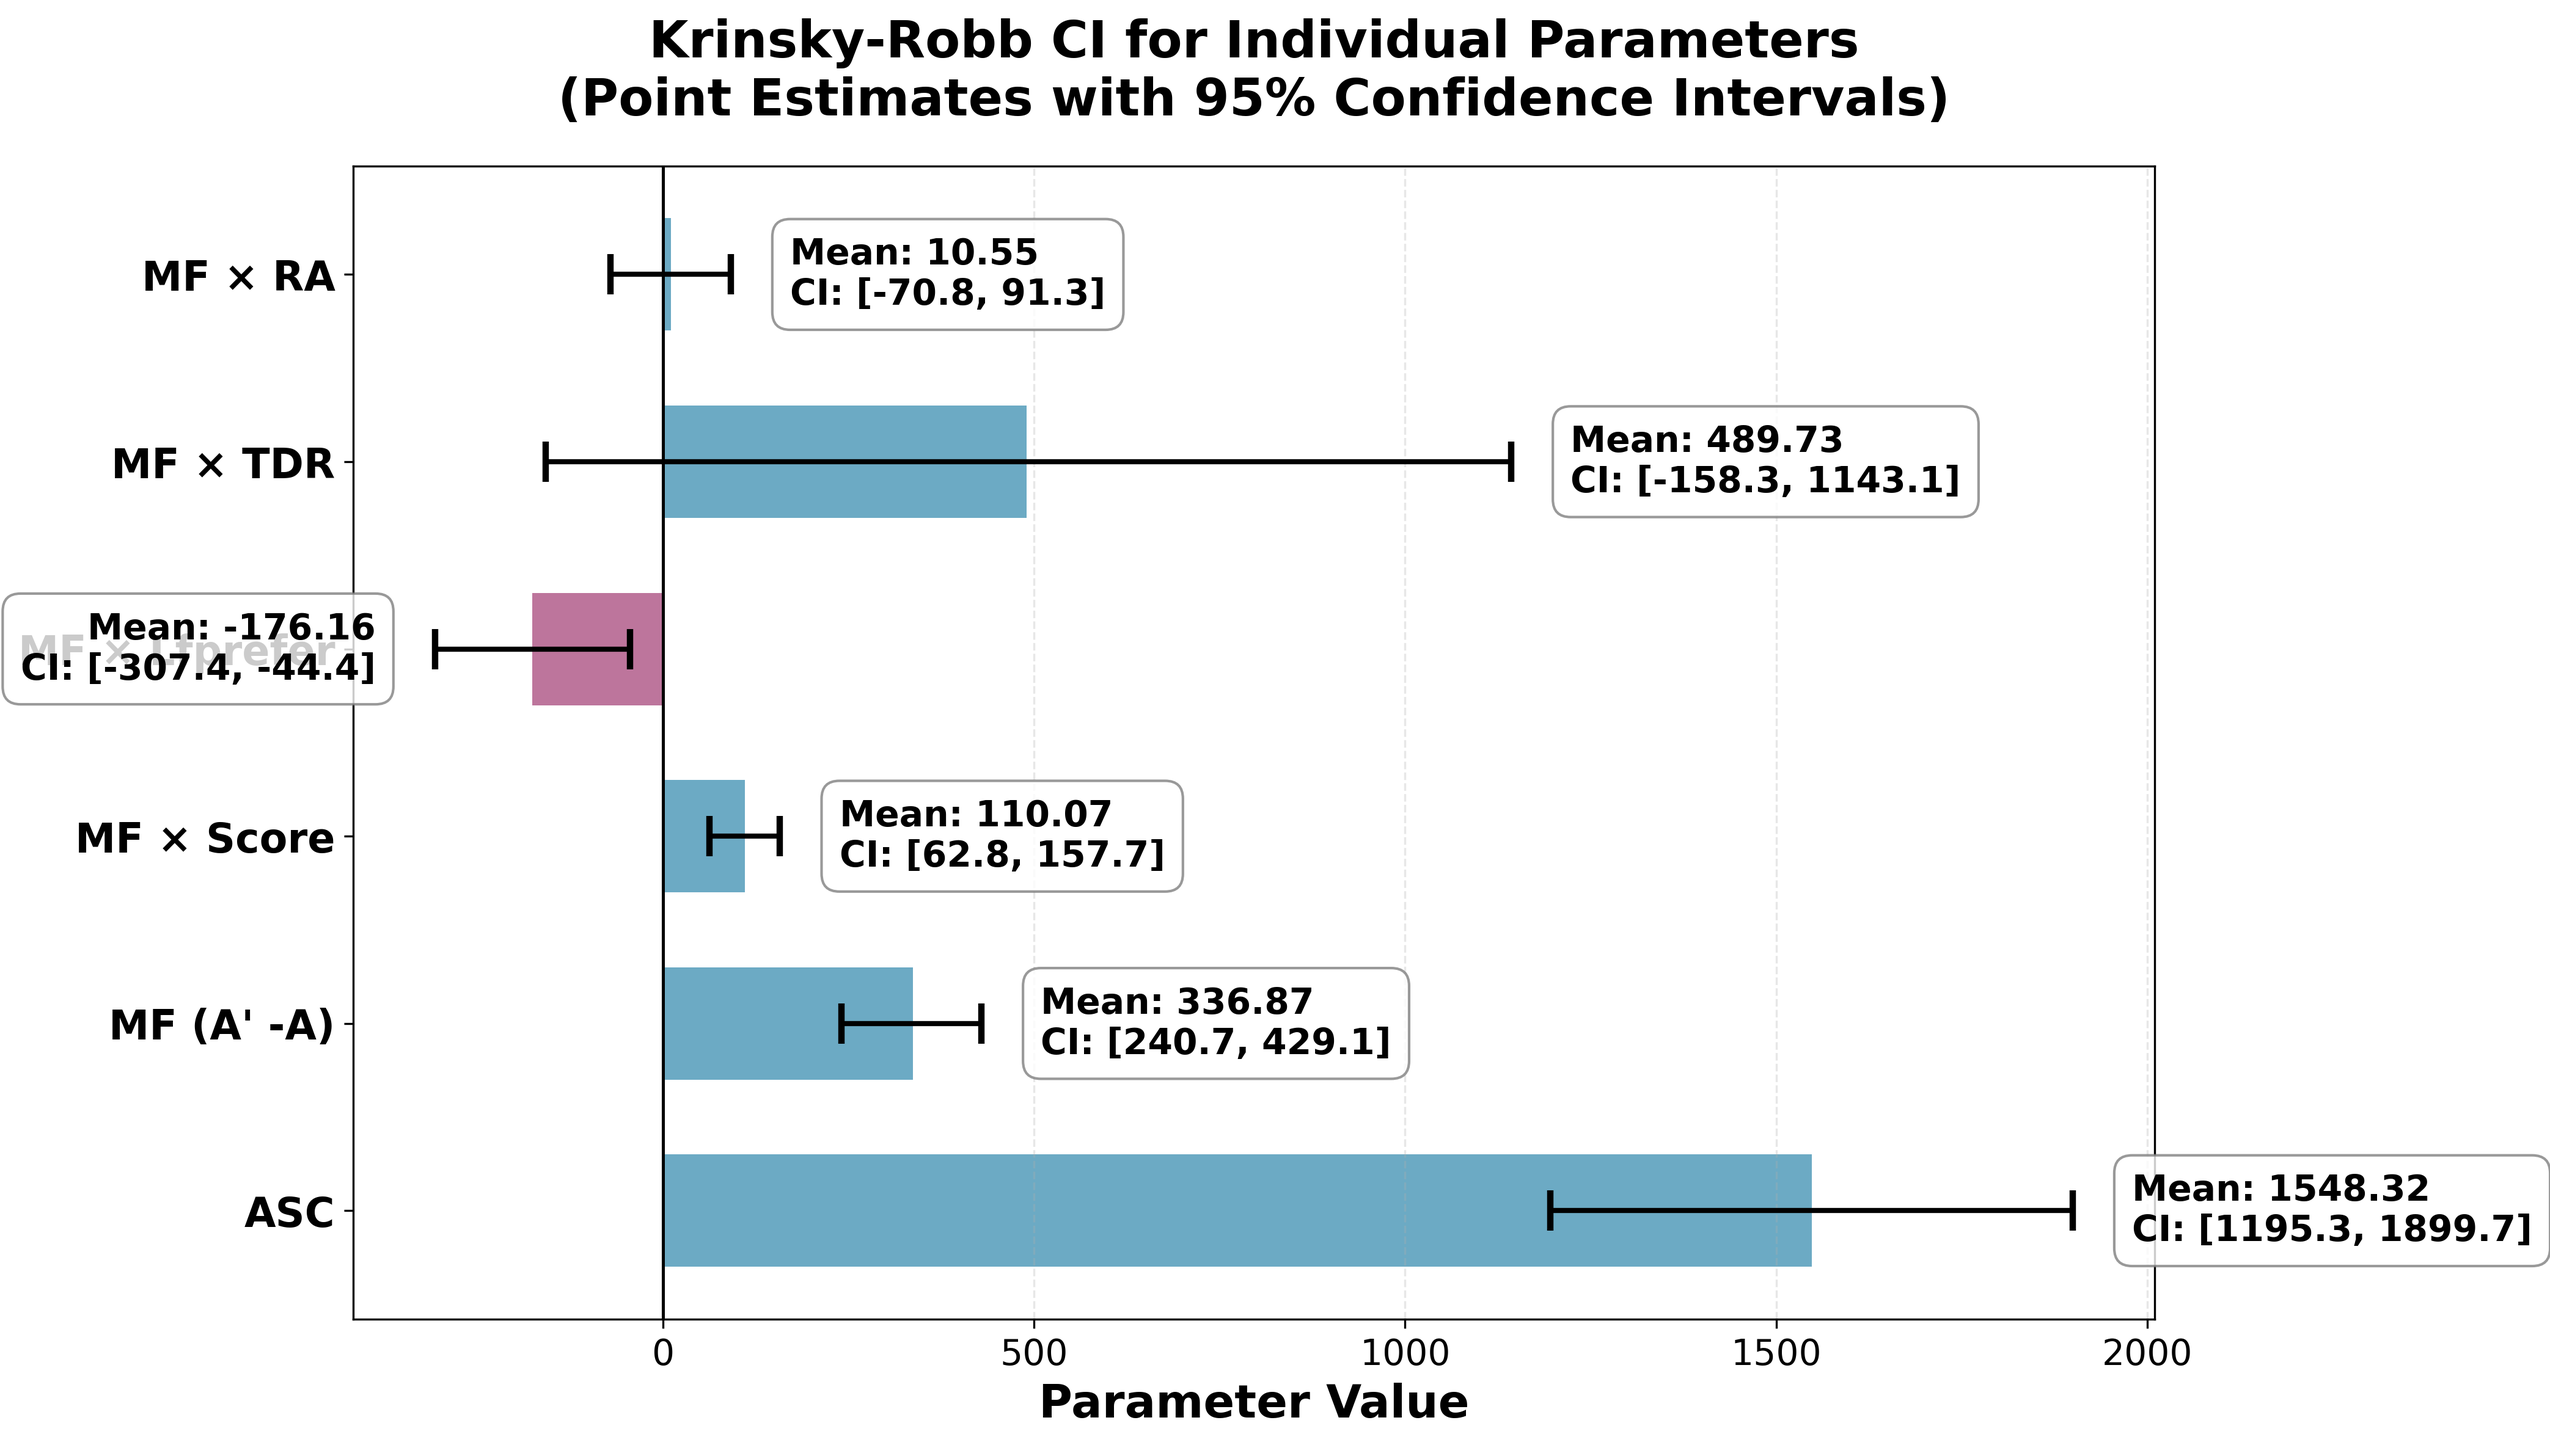
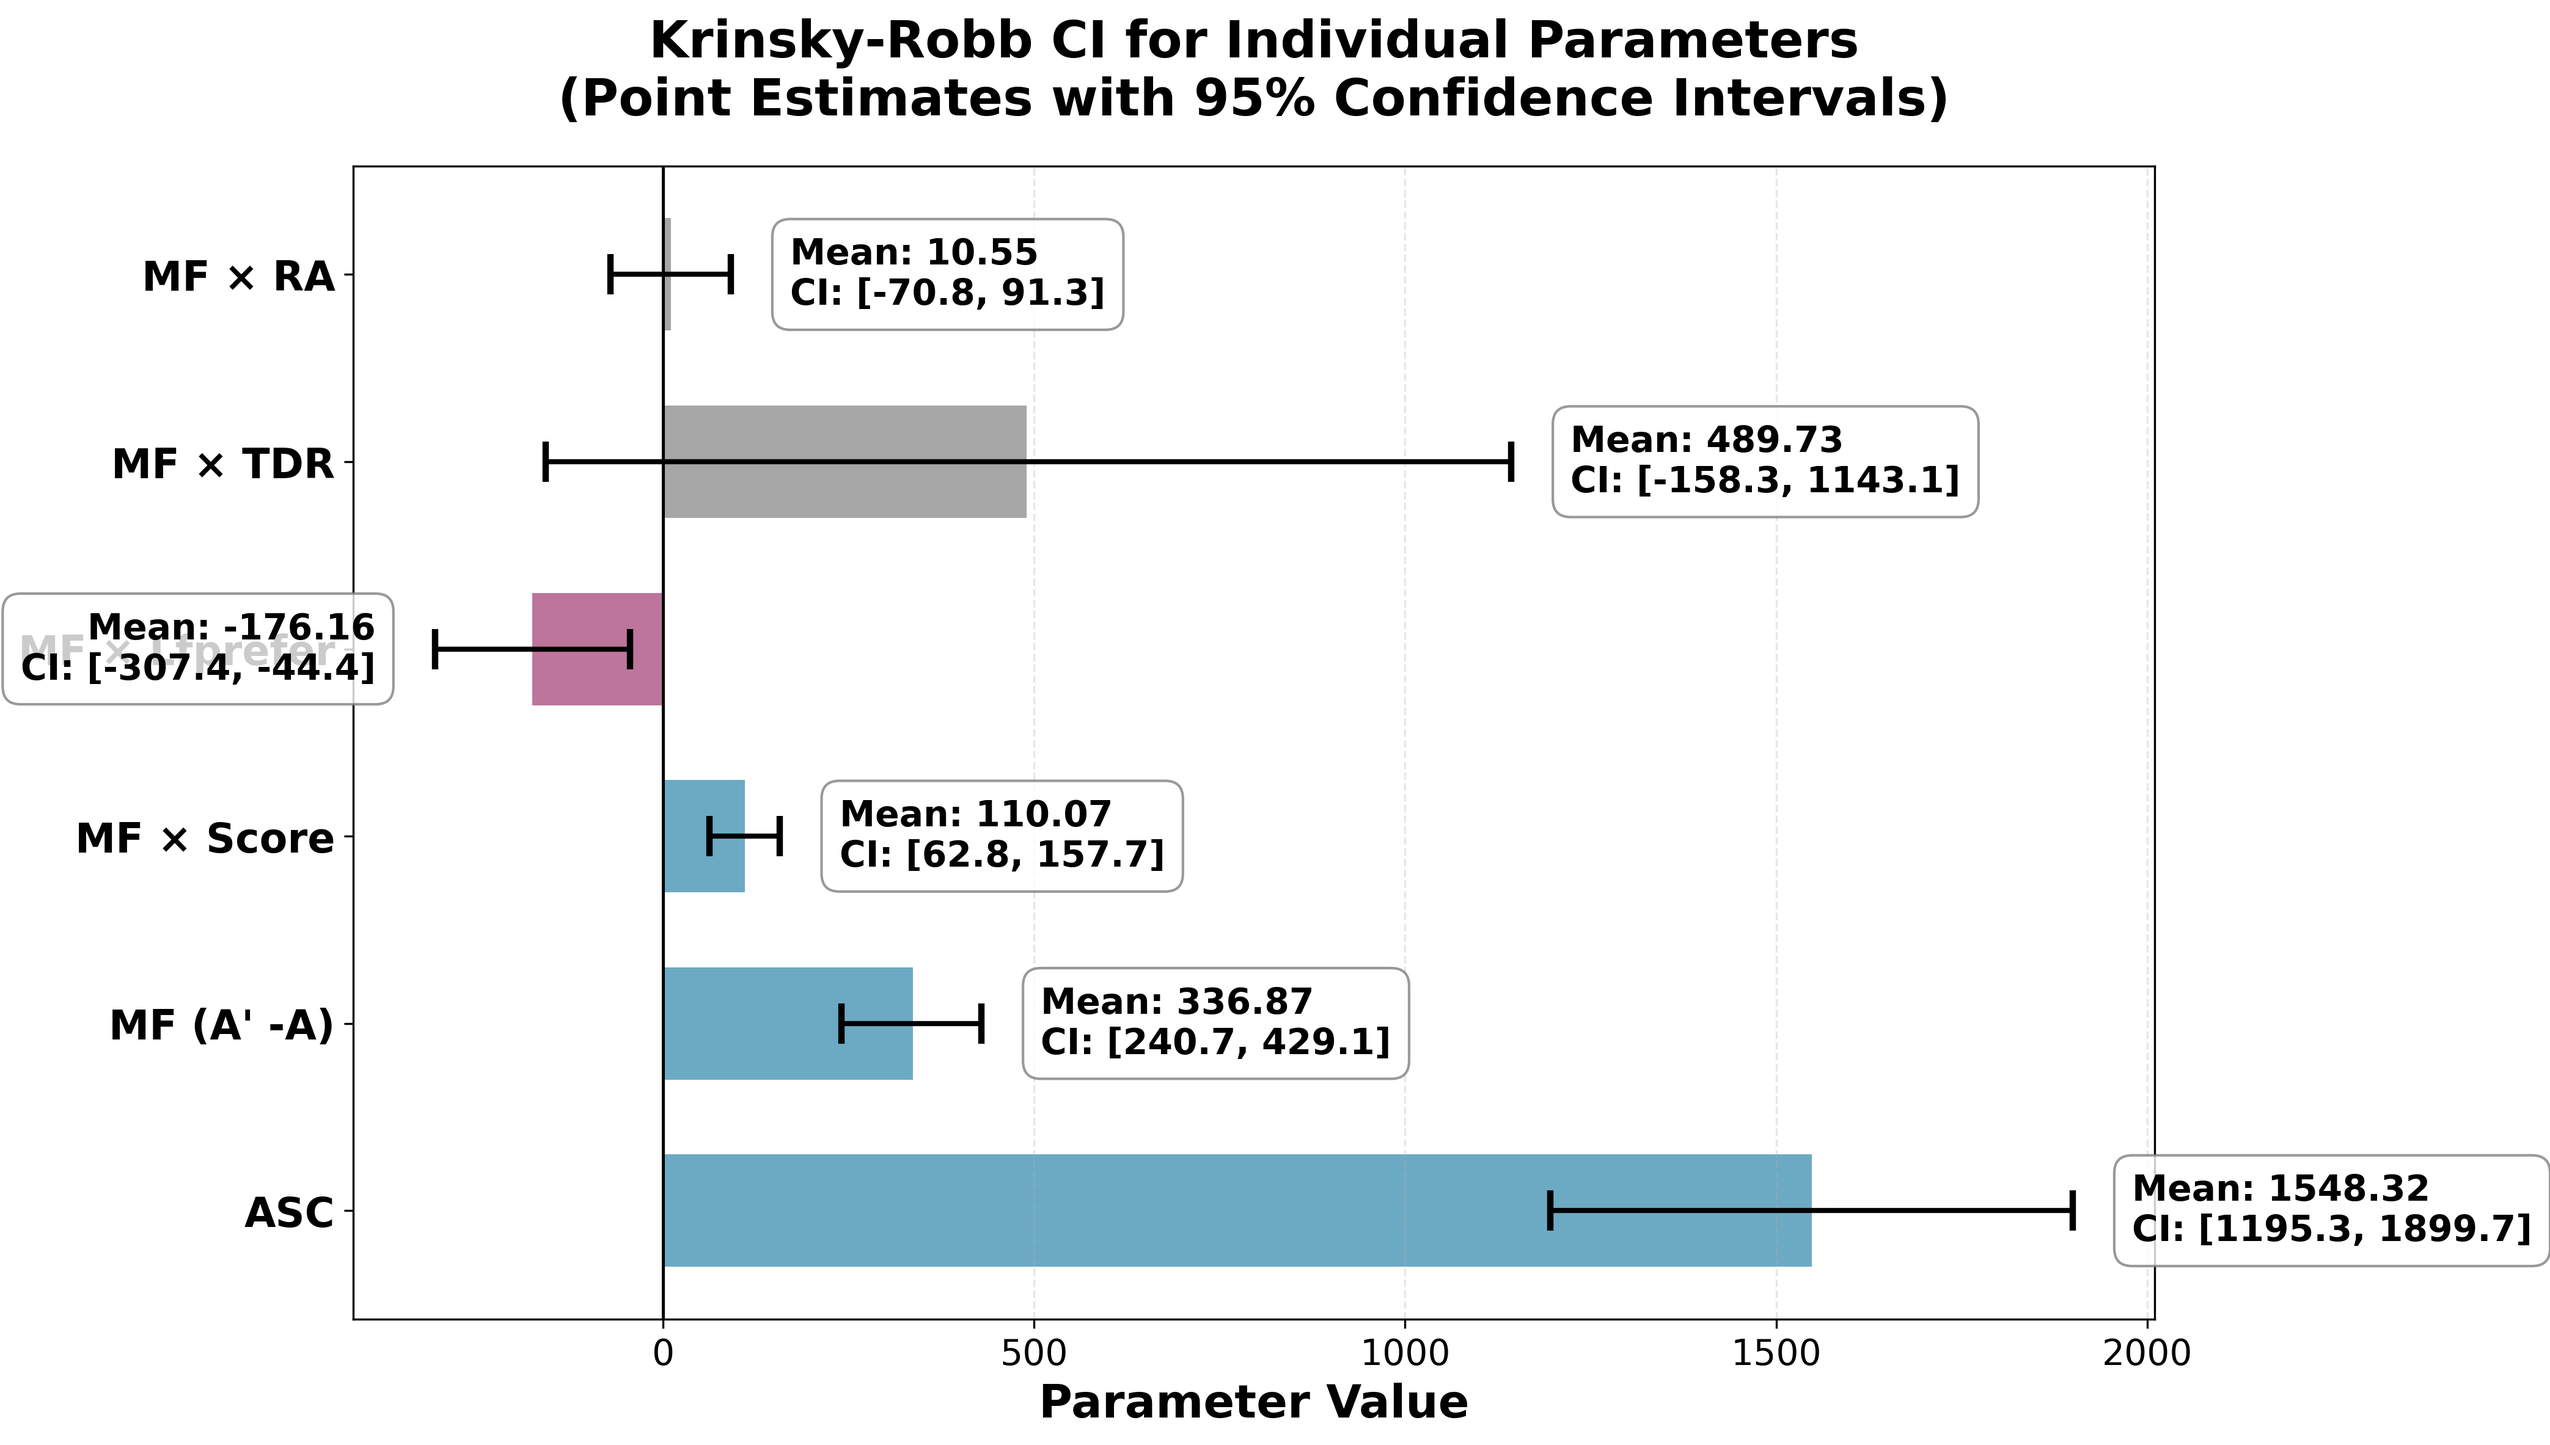
Use gray color for parameters with CI crossing zero
- MF×TDR and MF×RA now displayed in gray (#808080)
- These parameters have confidence intervals that cross zero
- Other parameters remain blue (positive) or red-purple (negative)

Changed region(s): [[0.2492, 0.2777, 0.405, 0.3702]]

diff --git a/plot_kr_ci2.py b/plot_kr_ci2.py
@@ -25,7 +25,15 @@ fig, ax = plt.subplots(figsize=(14, 8))
 
 # Create horizontal bar chart with error bars
 y_pos = np.arange(len(parameters))
-colors = ['#2E86AB' if pe > 0 else '#A23B72' for pe in point_estimates]
+# Assign colors: gray for CI crossing zero, blue for positive, red for negative
+colors = []
+for pe, cl, cu in zip(point_estimates, ci_lower, ci_upper):
+    if cl < 0 and cu > 0:  # CI crosses zero
+        colors.append('#808080')  # Gray
+    elif pe > 0:
+        colors.append('#2E86AB')  # Blue
+    else:
+        colors.append('#A23B72')  # Red-purple
 
 bars = ax.barh(y_pos, point_estimates, color=colors, alpha=0.7, height=0.6)
 
